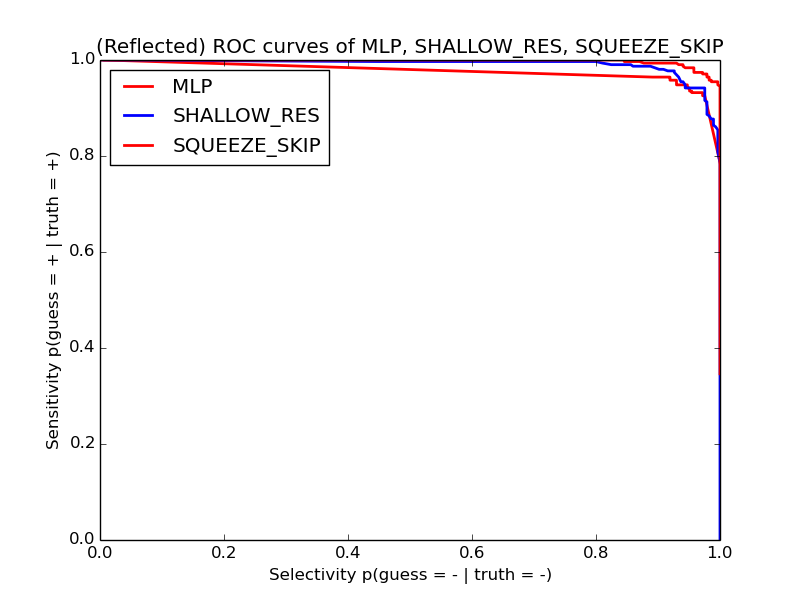
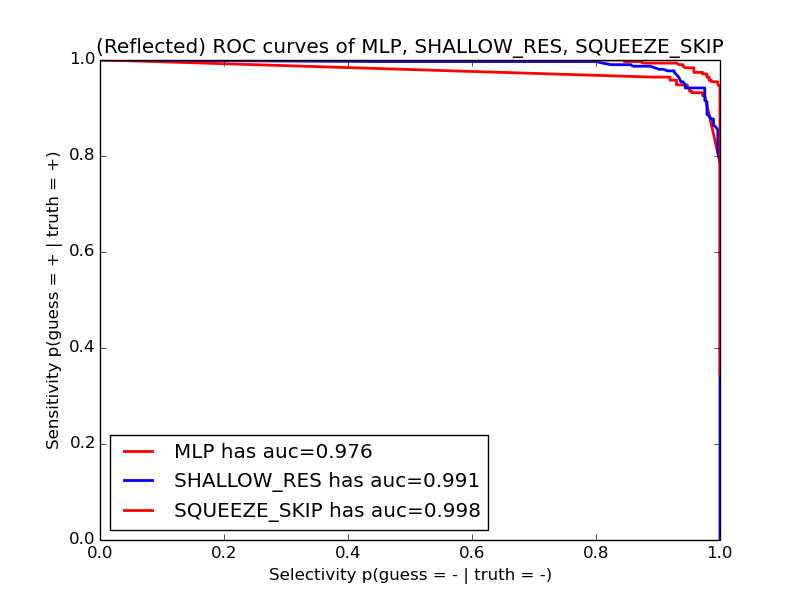
auc

Changed region(s): [[0.125, 0.72, 0.625, 0.9], [0.125, 0.09, 0.4375, 0.3]]

diff --git a/engine/view_curves.py b/engine/view_curves.py
@@ -52,7 +52,7 @@ def get_ROC(model_nm, nb_thresh=100):
         Each array has length (nb_thresh+1):
     '''
     preds_by_class = get_preds_by_class(model_nm)
-    threshs = np.arange(0.0, 1.0+1.0/nb_thresh, 1.0/nb_thresh)
+    threshs = np.arange(-1.0/nb_thresh, 1.0+2.0/nb_thresh, 1.0/nb_thresh)
     threshs = {0: 1-threshs, 1:threshs}
     recalls_by_class = {c: 1.0 - (np.searchsorted(preds, threshs[c]).astype(float) / len(preds))
                         for c, preds in preds_by_class.items()}
@@ -79,16 +79,28 @@ def get_cums(model_nm, bins=100, eps=1e-4):
     total_cum = blur(total_cum, sigma=bins/40)
     return confidences, correct_cum, total_cum 
 
+def auc_from_roc(sensitivities, selectivities):
+    ''' Computes `area under the curve` by linear interpolation
+    '''
+    r_old, d_old = 1.0, 0.0 # at 0 threshold, perfect recall
+    auc = 0.0
+    for r, d in list(zip(sensitivities, selectivities)) + [(0.0, 1.0)]:
+        auc += ((r+r_old)/2) * (d-d_old)
+        r_old, d_old = r, d
+    return auc
+
 def roc_curve(model_nm):
     ''' A `receiver-operating characteristic curve`
         plots sensitivity vs selectivity.
     '''
-    return get_ROC(model_nm)
+    ds, rs = get_ROC(model_nm)
+    return '%s has auc=%.3f' % (model_nm, auc_from_roc(rs, ds)), \
+           ds, rs
 
 def conf_curve(model_nm):
     ''' A `confidence curve` plots accuracy vs min conf '''
     confs, correct_cum, total_cum = get_cums(model_nm)
-    return confs, (correct_cum/total_cum)
+    return model_nm, confs, (correct_cum/total_cum)
 
 def yield_curve(model_nm):
     ''' A `yield curve` plots accuracy vs yield.
@@ -99,7 +111,7 @@ def yield_curve(model_nm):
     '''
     confs, correct_cum, total_cum = get_cums(model_nm)
     i = np.argmax(total_cum)
-    return (total_cum/max(total_cum))[i:], (correct_cum/total_cum)[i:]
+    return model_nm, (total_cum/max(total_cum))[i:], (correct_cum/total_cum)[i:]
 
 curve_getters_by_mode = {
     'yield': yield_curve,
@@ -125,8 +137,8 @@ def view_curves():
         model_nms = command.split() 
         for nm in model_nms:
             color = get('MODEL.%s.PLOTCOLOR' % nm)
-            xvals, yvals = compute_curve(nm, mode)
-            plt.plot(xvals, yvals, label='%s' % nm,
+            label, xvals, yvals = compute_curve(nm, mode)
+            plt.plot(xvals, yvals, label=label,
                      color=color, ls='-', lw=2.0)
         if mode=='yield':
             plt.title('Yield curves of %s' % ', '.join(model_nms))
